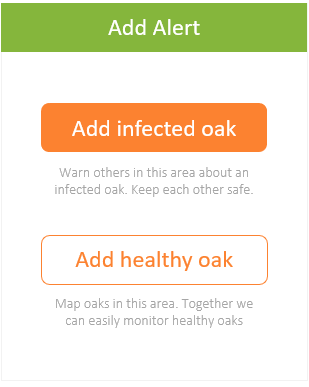
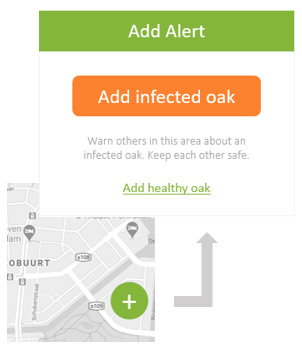
Changed visual and updated readme

diff --git a/app/index.html b/app/index.html
@@ -77,7 +77,6 @@
           <p><span class="textOrange">Add an alert</span> by tapping on the map or using the + button. You can add infected trees and healthy trees.</p>       
           <p>If you alerted the community services you can also specify this in your map entry.</p>
           <p>If you see an alert, but do not see the infection, you can flag that alert as possibly incorrect. If multiple people do this, the alert will be removed.
-          </p><div class="quick-link"><a href="how-to-recognize.html">How to recognize infected trees</a></div>
         </div>
         <img class="image-wrap argument-how--grid-item argument-how--grid-item-swap-2" src="assets/images/add-alert.png" alt="Screen of add alert window">
       </section>

diff --git a/README.md b/README.md
@@ -13,6 +13,8 @@ What is the most likely scenario? Chances are that it will be the first scenario
 
 This milestone 1 project is **the inception of Caterpillar.com**, a place where you can help each other by adding alerts about infected trees.
 
+You can view the project here at [rupsenalarm.nl](https://rupsenalarm.nl/).
+
 ## UX
 ### User stories
 As a user I want to:
@@ -117,26 +119,36 @@ Test passed means that the tests passed for the three main browsers Chrome, Fire
 
 
 ## Deployment
+For this project I used a local environment and a production environment. I learned these from a Udemy course (see Acknowledgements).
 
+### Local
+For the local environment I used [webpack-dev-server](https://www.npmjs.com/package/webpack-dev-server).
+You need to have npm and webpack installed. Then you can download and install webpack-dev-server. After installing you need to adjust your [webpack.config.js](https://github.com/ChiefChingu/caterpillar-1/blob/master/webpack.config.js). I set the dev server to port 3000, so after running 'npm run dev' the site is loaded on http://localhost:3000/.
+
+### Production
+Caterpillar Alarm is running on the domain 'Rupsenalarm.nl'. This is the Dutch name for Caterpillar Alarm. It is hosted at Hostgator and forwarded to Netlify.
+When I want to push from local to production, I do the following on the command line:
+
+1. ctrl-c (to end npm dev)
+1. git Add -A
+2. git commit -m "description"
+3. npm run build
+4. git push origin master
+
+The moment github is updated Netlify takes over and builds the project on the live site.
 
 ## Credits
 ### Content
-Homepage: own copy.
-
-Page 'What is it?': [Wikipedia](https://en.wikipedia.org/wiki/Oak_processionary).
-
-Page Symptoms: [Forest Research](https://www.forestresearch.gov.uk/tools-and-resources/pest-and-disease-resources/oak-processionary-moth-thaumetopoea-processionea/opm-manual-2-public-and-animal-health-advice/).
-
-Cookie policy: [Cookie Policy Template Generator](https://www.cookiepolicygenerator.com/).
-
-Privacy policy: [Free Privacy Policy](https://www.freeprivacypolicy.com/).
+- Homepage: own copy.
+- Page 'What is it?': [Wikipedia](https://en.wikipedia.org/wiki/Oak_processionary).
+- Page Symptoms: [Forest Research](https://www.forestresearch.gov.uk/tools-and-resources/pest-and-disease-resources/oak-processionary-moth-thaumetopoea-processionea/opm-manual-2-public-and-animal-health-advice/).
+- Cookie policy: [Cookie Policy Template Generator](https://www.cookiepolicygenerator.com/).
+- Privacy policy: [Free Privacy Policy](https://www.freeprivacypolicy.com/).
 
 ### Media
-Media of the page 'Symptoms' comes from [Forest Research](https://www.forestresearch.gov.uk/tools-and-resources/pest-and-disease-resources/oak-processionary-moth-thaumetopoea-processionea/opm-manual-2-public-and-animal-health-advice/).
-
-All other media is from:
+- Media of the page 'Symptoms' comes from [Forest Research](https://www.forestresearch.gov.uk/tools-and-resources/pest-and-disease-resources/oak-processionary-moth-thaumetopoea-processionea/opm-manual-2-public-and-animal-health-advice/).
+- All other media is from:
 [Het Streeknieuws](https://hetstreeknieuws.nl/pas-op-verdriedubbeling-aantal-eikenprocessierupsen/).
-
 
 ### Acknowledgements
 - The [Pure CSS popup menu](https://codepen.io/imprakash/pen/GgNMXO) inspired me to create a mobile hamburger menu.
